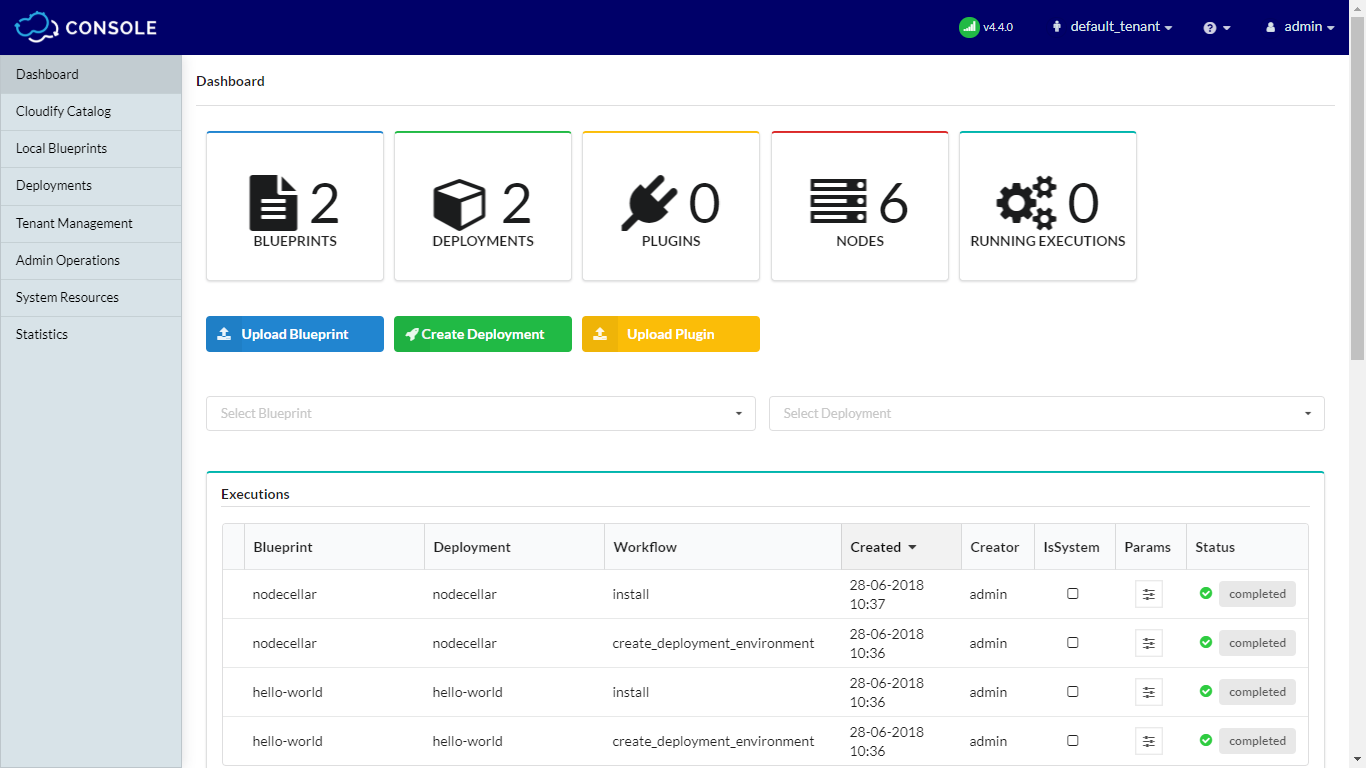
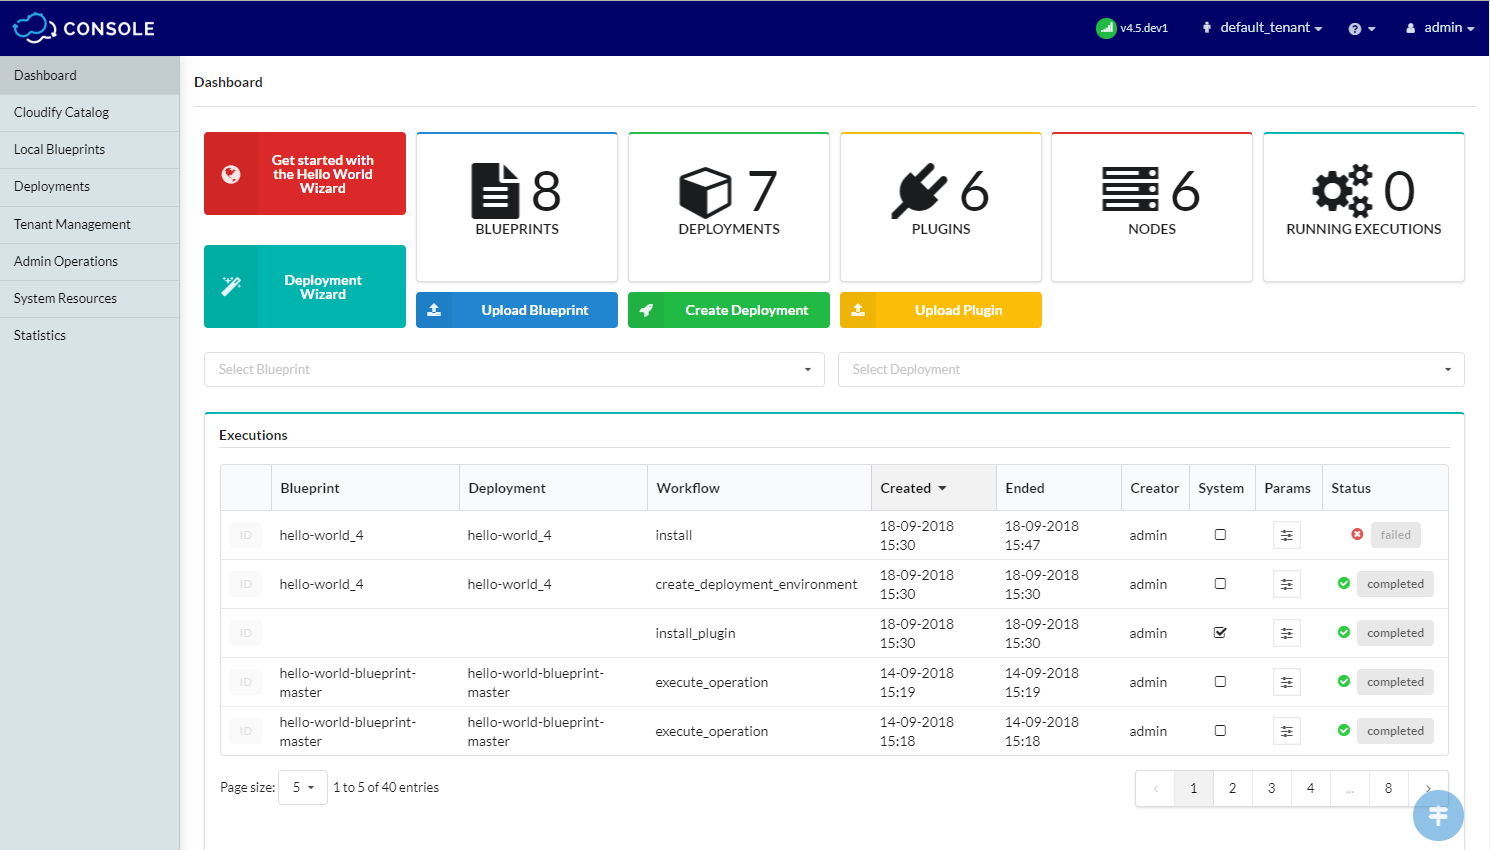
CY-564 - Updated official documentation with Deployment Wizard changes (#958)
* Add page about Deployment Wizard Button widget and updated Dashboard page description (CY-564)

* Updated dashboard page screenshot

diff --git a/content/working_with/console/widgets/deploymentWizardButtons.md b/content/working_with/console/widgets/deploymentWizardButtons.md
@@ -1,0 +1,78 @@
+---
+layout: bt_wiki
+title: Deployment wizard buttons
+category: Cloudify Console
+draft: false
+---
+Allows installing a deployment of a Hello World example or chosen blueprint. 
+
+![deployment_wizard_buttons]( /images/ui/widgets/deployment_wizard_buttons.png )
+
+After clicking on one of the buttons user is guided step by step through the process from selecting blueprint, through providing necessary data - plugins, secrets and inputs, to running install workflow.
+
+Details about the steps in wizard are described below.
+
+##### Infrastructure step (only in Hello World Wizard)
+![hw_wizard_0]( /images/ui/widgets/deployment_wizard_buttons_hw_wizard_0.png )
+
+In the first step Hello World blueprint is already selected from Cloudify blueprint examples. You just need to select the type of the infrastracture you want to deploy that example on.
+
+Click `Next` button to go the next step.
+
+##### Blueprint step (only in Deployment Wizard)
+![deployment_wizard_0]( /images/ui/widgets/deployment_wizard_buttons_deployment_wizard_0.png )
+
+In the first step you need to provide blueprint package (either by URL or local archive file), set blueprint name and choose the YAML file from the blueprint package. 
+
+Set blueprint and deployment visibility by clicking on the icon on the top right part of the modal window.
+
+Click `Next` button to go the next step.
+ 
+##### Plugins step 
+In this step you see list of plugins detected in blueprint's YAML file imports section. 
+
+![wizard_plugins_step]( /images/ui/widgets/deployment_wizard_buttons_hw_wizard_plugins.png )
+
+Some of them may be automatically installed, for some of them you will need to provide wagon and plugin YAML files. You can also add your plugin if it was not detected.
+
+Hover over icon in `Action` column to see details and check if you need to provide any additional data. Set visibility by clicking on the icon on the right side in `Action` column. Click `Back` or `Next` button to navigate between steps.
+
+##### Secrets step 
+In this step you see list of secrets detected in blueprint's YAML file. 
+
+![wizard_secrets_step]( /images/ui/widgets/deployment_wizard_buttons_hw_wizard_secrets.png )
+
+Some of them may already be set, for some of them you will need to provide values.
+
+Hover over icon in `Action` column to see details and check if you need to provide value for the secret. Set visibility by clicking on the icon on the right side in `Action` column. Click `Back` or `Next` button to navigate between steps.
+
+##### Inputs step 
+In this step you see list of blueprint inputs. 
+
+![wizard_inputs_step]( /images/ui/widgets/deployment_wizard_buttons_hw_wizard_inputs.png )
+
+If input has default value you won't need to provide it. You need to set values only for inputs which does not have default values.
+
+Hover over icon in `Action` column to see details and check if you need to provide value for the input. Click `Back` or `Next` button to navigate between steps.
+
+##### Confirm step 
+In this step you see list of task to be performed during installation process. 
+
+![wizard_confirm_step]( /images/ui/widgets/deployment_wizard_buttons_hw_wizard_confirm.png )
+
+Click `Install` to start resources installation procedure or click `Back` button to go to the previous steps.
+
+##### Install step 
+In this step you see list of ongoing tasks and its status. 
+
+![wizard_install_step]( /images/ui/widgets/deployment_wizard_buttons_hw_wizard_install.png )
+
+When deployment installation starts successfuly you can perform additional actions - install another blueprint or go to deployment page.
+
+When something go wrong you will be able to see error message and you start over the procedure.
+
+#### Widget Settings
+* `Show Hello World Wizard button` - if set then Hello World Wizard button will be shown
+* `Hello World Wizard button label` - label for Hello World Wizard button
+* `Show Deployment Wizard button` - if set then Deployment Wizard button will be shown
+* `Deployment Wizard button label` - label for Deployment Wizard button 

diff --git a/content/working_with/console/dashboard-page.md b/content/working_with/console/dashboard-page.md
@@ -12,7 +12,8 @@ The Dashboard page is the landing page when you log into the Cloudify Console.
 
 ![Dashboard page]( /images/ui/ui-dashboard-page.png )
 
-By default, the page displays the most commonly used widgets, including the number of blueprints, deployments, plugins, node instances and running executions on this Cloudify Manager.
+By default, the page displays the most commonly used widgets, including the number of blueprints, deployments, plugins, node instances and running executions on this Cloudify Manager. You can also start Deployment Wizard from this point by clicking on of the wizard buttons (  check [this page]({{< relref "working_with/console/widgets/deploymentWizardButtons.md" >}}) for more details).  
+
 The other default widgets show an overview of the current and recent processes on the Cloudify Manager, including:
 
 * All of the executions on the Cloudify manager.
